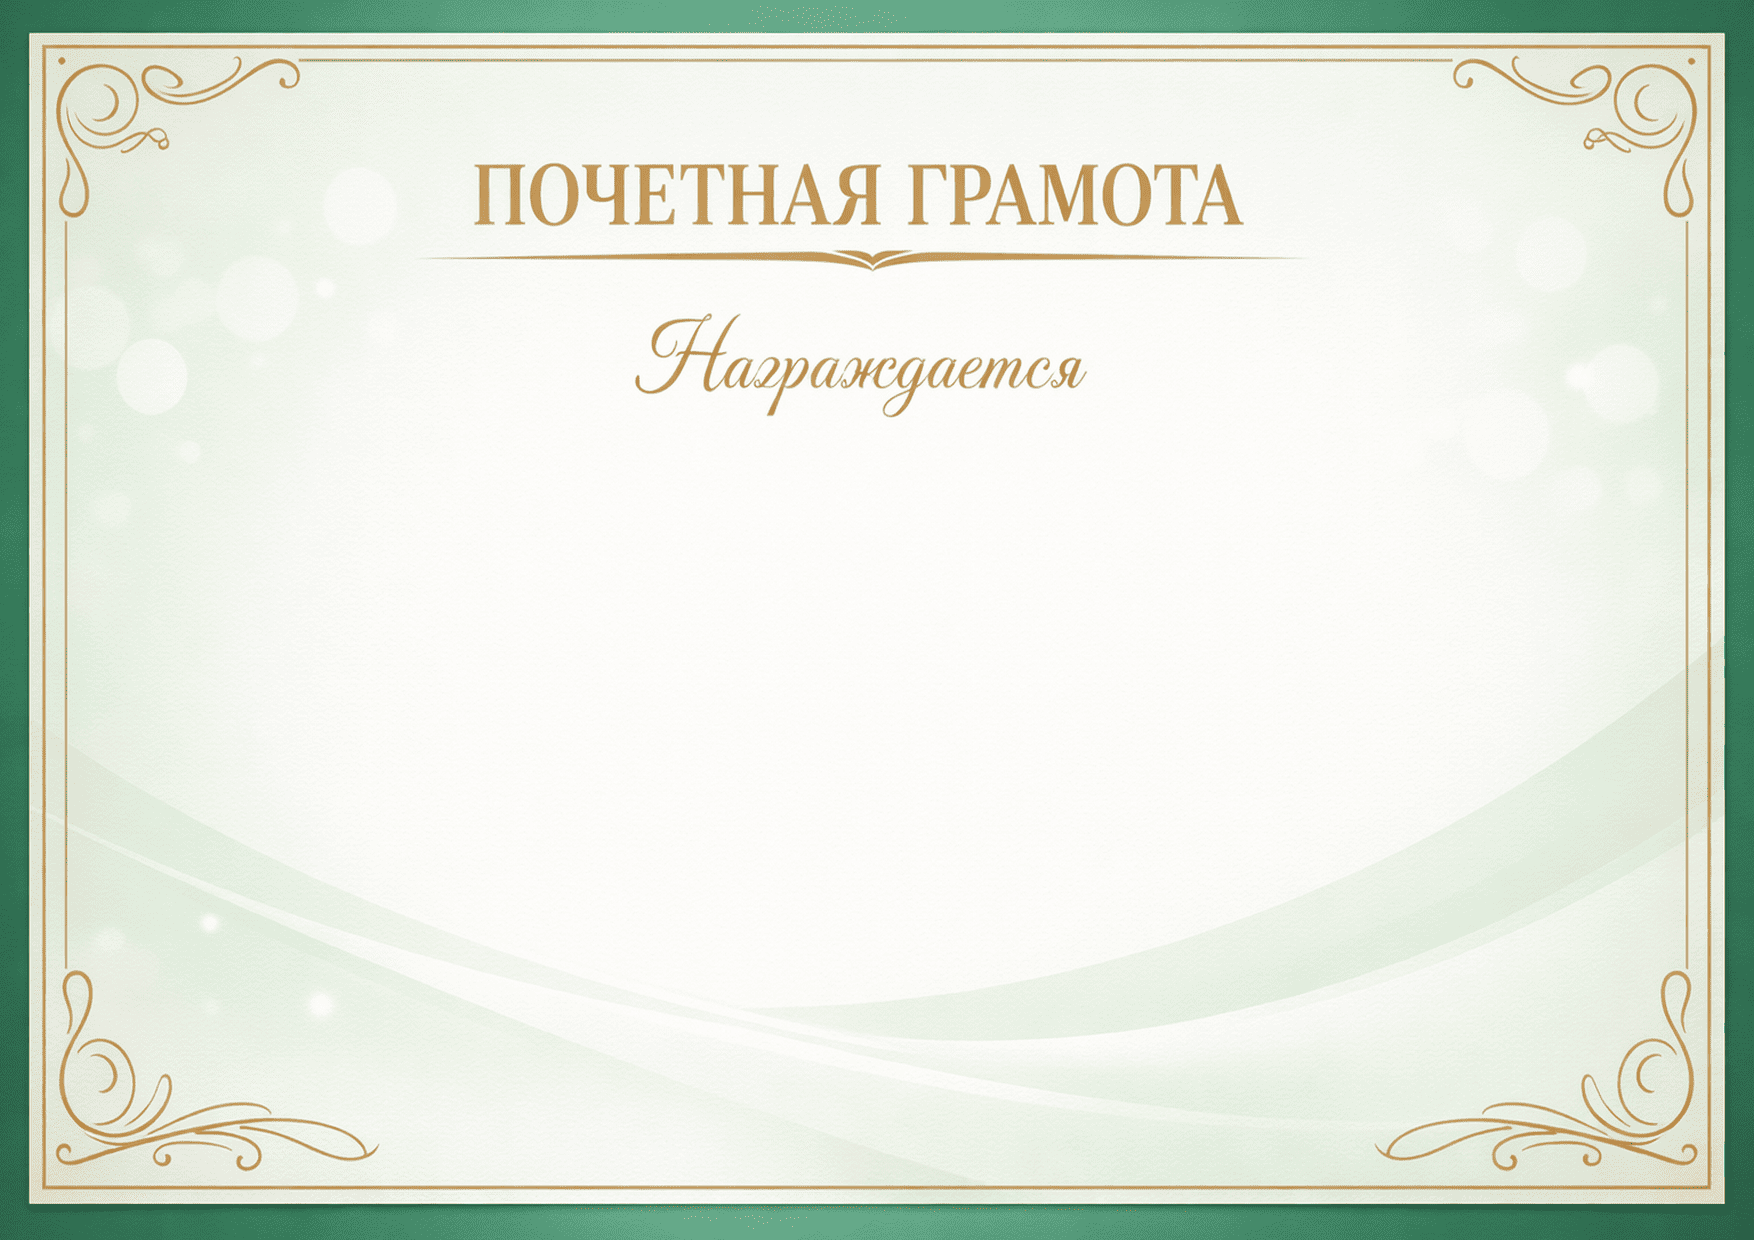
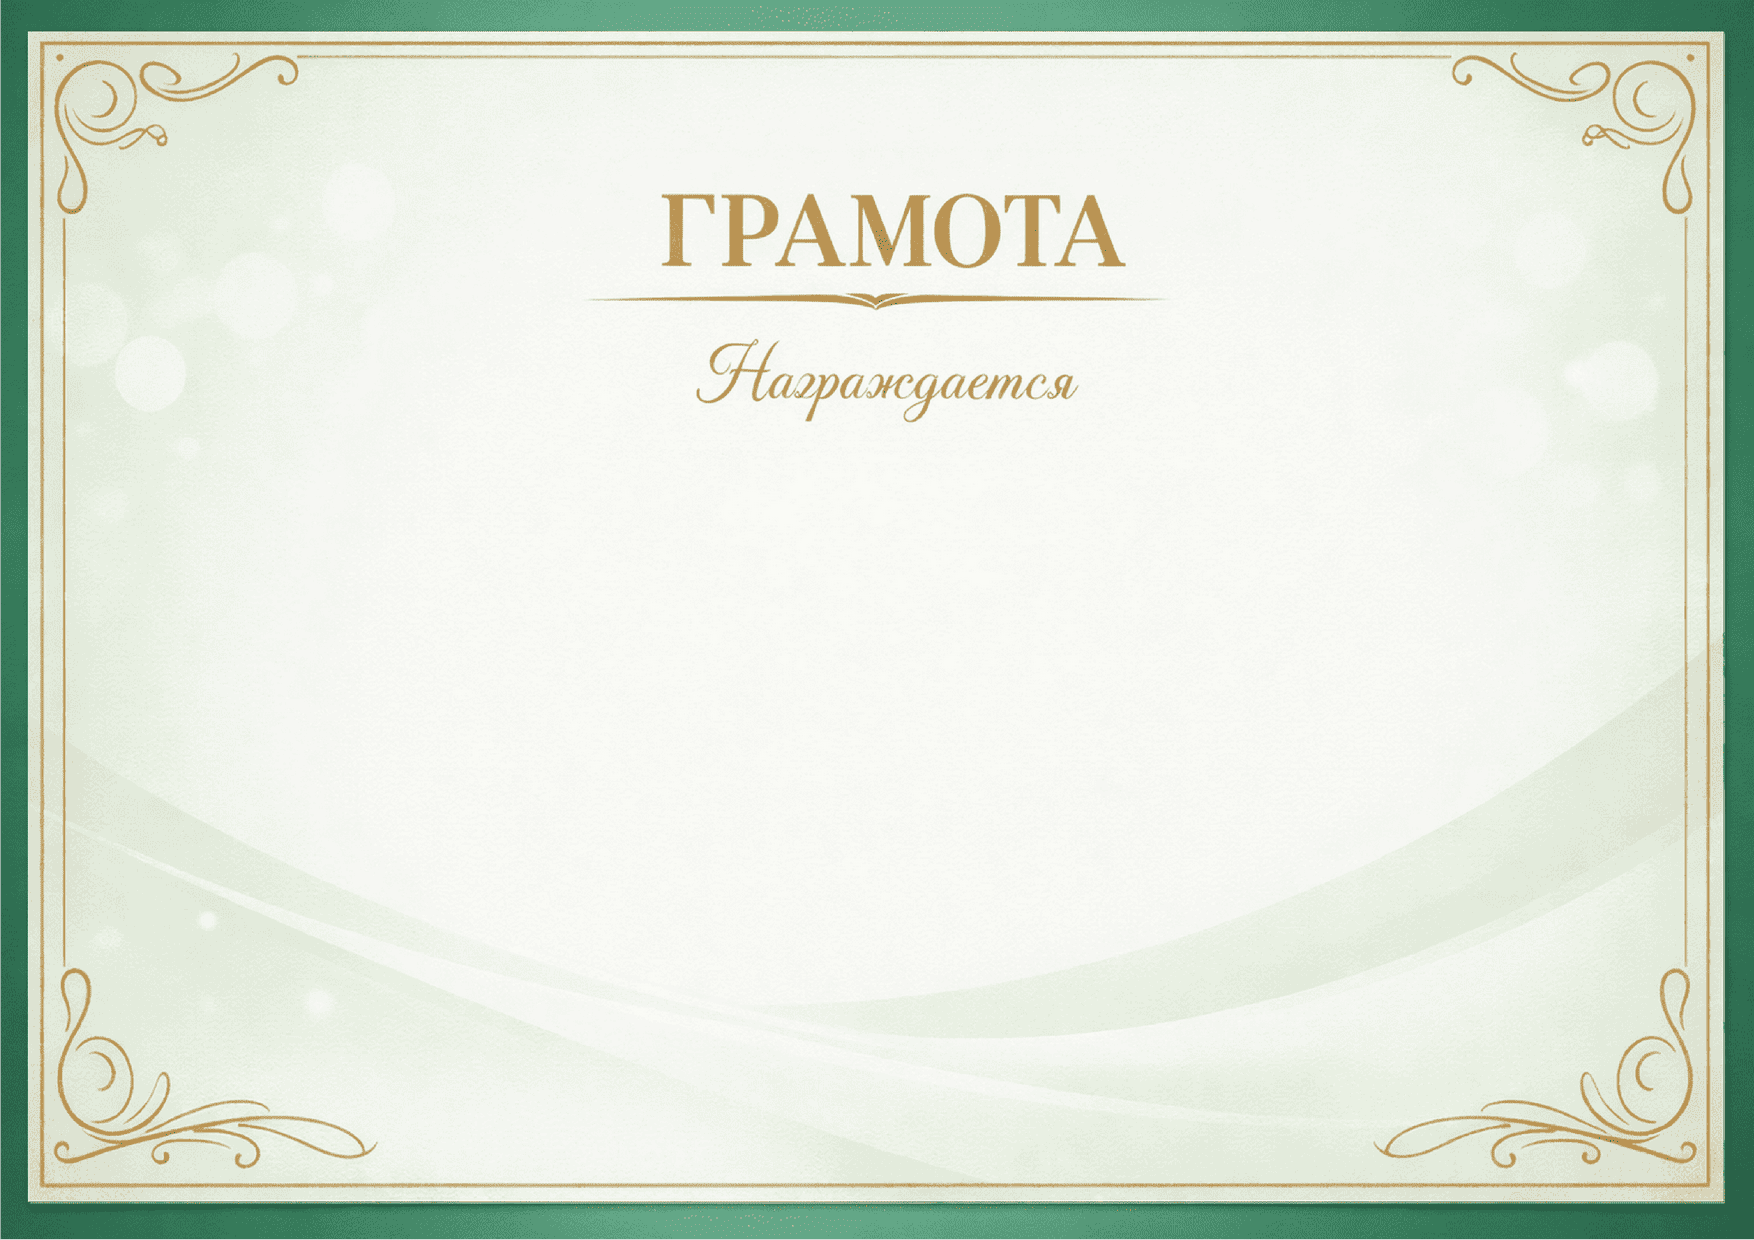
mod

Changed region(s): [[0.0, 0.0, 0.9852, 0.9806], [0.2463, 0.1226, 0.7081, 0.3371]]

diff --git a/index.html b/index.html
@@ -8,9 +8,10 @@
 
     <!-- Все нужные шрифты в одной ссылке -->
     <link
-      href="https://fonts.googleapis.com/css2?family=Marck+Script&family=Lora:ital,wght@0,400..700;1,400..700&family=Montserrat:ital,wght@0,100..900;1,100..900&family=Comfortaa:wght@300..700&family=Sofia+Sans+Condensed:ital,wght@0,1..1000;1,1..1000&family=Pacifico&family=Sofia+Sans+Extra+Condensed:ital,wght@0,1..1000;1,1..1000&family=Yanone+Kaffeesatz:wght@200..700&family=Caveat:wght@400..700&family=Lobster&display=swap"
+      href="https://fonts.googleapis.com/css2?family=Marck+Script&family=Lora:ital,wght@0,400..700;1,400..700&family=Montserrat:ital,wght@0,100..900;1,100..900&family=Comfortaa:wght@300..700&family=Sofia+Sans+Condensed:ital,wght@0,1..1000;1,1..1000&family=Pacifico&family=Sofia+Sans+Extra+Condensed:ital,wght@0,1..1000;1,1..1000&family=Yanone+Kaffeesatz:wght@200..700&family=Caveat:wght@400..700&family=Lobster&family=Great+Vibes&display=swap"
       rel="stylesheet"
     />
+
     <meta name="viewport" content="width=device-width, initial-scale=1.0" />
     <title>Vite App</title>
   </head>

diff --git a/src/App.vue b/src/App.vue
@@ -1,6 +1,7 @@
 <script setup>
 import { ref } from 'vue'
 import AppGramota from './components/AppGramota.vue'
+import AppGramotaPochetnaja from './components/AppGramotaPochetnaja.vue'
 import AppLesovik from './components/AppLesovik.vue'
 
 const value = ref('Option1')
@@ -10,9 +11,13 @@ const options = [
     value: 'Option1',
     label: 'грамота',
   },
-
   {
     value: 'Option2',
+    label: 'почетная грамота',
+  },
+
+  {
+    value: 'Option3',
     label: 'диплом юного лесовода',
   },
 ]
@@ -65,8 +70,13 @@ const handleUserUpdate = (updatedUser) => {
   </div>
   <div class="inner">
     <app-gramota v-if="value === 'Option1'" :user="user" @update:user="handleUserUpdate" />
+    <app-gramota-pochetnaja
+      v-if="value === 'Option2'"
+      :user="user"
+      @update:user="handleUserUpdate"
+    />
 
-    <app-lesovik v-if="value === 'Option2'" :user="user" @update:user="handleUserUpdate" />
+    <app-lesovik v-if="value === 'Option3'" :user="user" @update:user="handleUserUpdate" />
   </div>
 </template>
 

diff --git a/src/components/AppGramotaPochetnaja.vue b/src/components/AppGramotaPochetnaja.vue
@@ -139,7 +139,7 @@ console.log('История текстов:', history.value)
 
 <style scoped>
 .wrapper {
-  background: url(/images/gramota.png) no-repeat;
+  background: url(/images/gramota-pochetnaja.png) no-repeat;
   position: relative;
   background-size: cover;
   display: flex;
